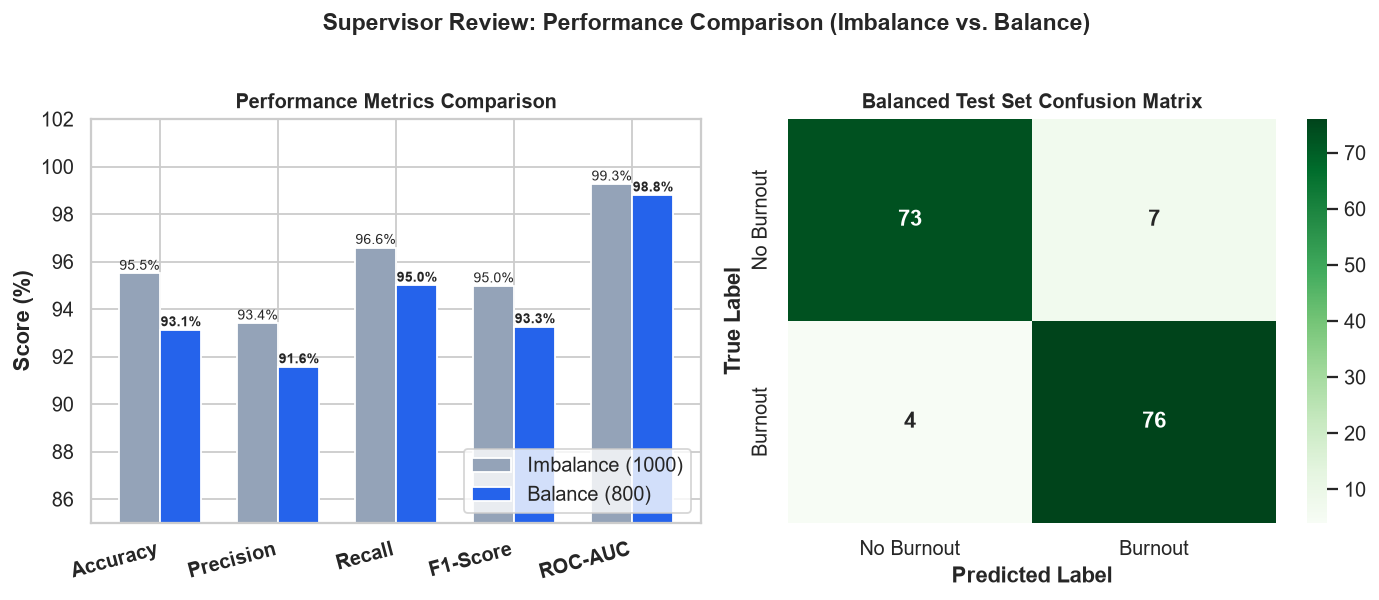
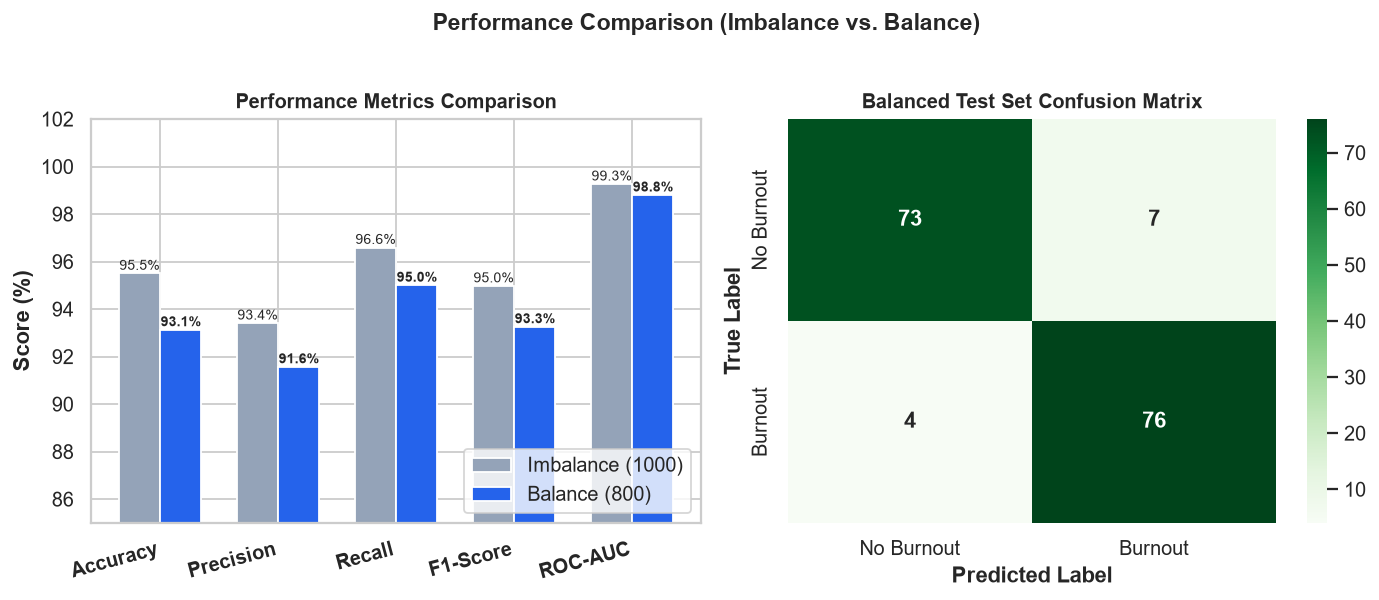
Fix employees table overflow, enclose action buttons within card frame, and improve action button styling

Changed region(s): [[0.2183, 0.0, 0.8107, 0.06]]

diff --git a/frontend/css/style.css b/frontend/css/style.css
@@ -476,6 +476,7 @@ main {
   box-shadow: var(--shadow-sm);
   margin-bottom: 1.75rem;
   transition: var(--transition);
+  overflow: hidden;
 }
 
 .page-title {
@@ -522,10 +523,35 @@ main {
 
 /* ── 10. Modern Data Tables ──────────────────────────────────────────────── */
 .table-wrap {
+  width: 100%;
+  max-width: 100%;
   overflow-x: auto;
+  -webkit-overflow-scrolling: touch;
   border-radius: var(--radius-md);
   border: 1px solid var(--border);
   background: var(--surface);
+  box-shadow: 0 1px 3px rgba(0, 0, 0, 0.02);
+}
+
+#tableContainer,
+#watchlistTableContainer {
+  width: 100%;
+  max-width: 100%;
+}
+
+.table-wrap::-webkit-scrollbar {
+  height: 6px;
+}
+.table-wrap::-webkit-scrollbar-track {
+  background: #f1f5f9;
+  border-radius: 4px;
+}
+.table-wrap::-webkit-scrollbar-thumb {
+  background: #cbd5e1;
+  border-radius: 4px;
+}
+.table-wrap::-webkit-scrollbar-thumb:hover {
+  background: #94a3b8;
 }
 
 table {
@@ -537,11 +563,11 @@ table {
 thead th {
   background: #f8fafc;
   color: #475569;
-  font-size: 0.78rem;
+  font-size: 0.76rem;
   font-weight: 700;
   text-transform: uppercase;
-  letter-spacing: 0.05em;
-  padding: 0.95rem 1.15rem;
+  letter-spacing: 0.04em;
+  padding: 0.85rem 0.95rem;
   border-bottom: 1.5px solid var(--border);
   white-space: nowrap;
 }
@@ -551,30 +577,58 @@ tbody tr {
   border-bottom: 1px solid var(--border-subtle);
 }
 
+tbody tr:last-child {
+  border-bottom: none;
+}
+
 tbody tr:hover {
   background: #f8fafc;
 }
 
 tbody td {
-  padding: 1rem 1.15rem;
-  font-size: 0.9rem;
+  padding: 0.8rem 0.95rem;
+  font-size: 0.88rem;
   color: var(--text);
   vertical-align: middle;
+}
+
+.col-name {
+  min-width: 160px;
 }
 
 .col-name .emp-name-title {
   font-weight: 700;
   color: var(--text);
-  font-size: 0.95rem;
+  font-size: 0.92rem;
+  line-height: 1.25;
 }
 
 .col-name .emp-name-sub {
-  font-size: 0.8rem;
+  font-size: 0.78rem;
   color: var(--muted);
   display: flex;
   gap: 0.35rem;
   align-items: center;
-  margin-top: 0.15rem;
+  margin-top: 0.2rem;
+  white-space: nowrap;
+}
+
+.col-actions {
+  text-align: right;
+  white-space: nowrap;
+  width: 1%;
+  padding-right: 1.15rem !important;
+}
+
+th.col-actions {
+  text-align: right;
+}
+
+body[dir="rtl"] .col-actions,
+body[dir="rtl"] th.col-actions {
+  text-align: left;
+  padding-left: 1.15rem !important;
+  padding-right: 0.95rem !important;
 }
 
 /* ── 11. Badges & Indicators ─────────────────────────────────────────────── */
@@ -718,33 +772,47 @@ tbody td {
 .actions-wrap {
   display: inline-flex;
   align-items: center;
-  gap: 0.45rem;
+  justify-content: flex-end;
+  gap: 0.4rem;
+  white-space: nowrap;
+  flex-wrap: nowrap;
+}
+
+body[dir="rtl"] .actions-wrap {
+  justify-content: flex-start;
 }
 
 .btn-action {
-  padding: 0.38rem 0.75rem;
-  border-radius: var(--radius-sm);
-  font-size: 0.8rem;
+  padding: 0.35rem 0.65rem;
+  border-radius: 6px;
+  font-size: 0.78rem;
   font-weight: 700;
   cursor: pointer;
-  border: none;
+  border: 1px solid transparent;
   font-family: inherit;
   display: inline-flex;
   align-items: center;
+  justify-content: center;
   gap: 0.35rem;
+  white-space: nowrap;
+  flex-shrink: 0;
+  line-height: 1.2;
   transition: var(--transition);
+  box-shadow: 0 1px 2px rgba(0, 0, 0, 0.04);
 }
 
 .btn-action.edit {
-  background: #eff6ff;
-  color: #1d4ed8;
-  border: 1px solid #bfdbfe;
+  background: #f0f7ff;
+  color: #0369a1;
+  border: 1px solid #bae6fd;
 }
 
 .btn-action.edit:hover {
-  background: #dbeafe;
-  color: #1e40af;
+  background: #e0f2fe;
+  color: #0284c7;
+  border-color: #7dd3fc;
   transform: translateY(-1px);
+  box-shadow: 0 2px 6px rgba(3, 105, 161, 0.15);
 }
 
 .btn-action.delete {
@@ -756,7 +824,9 @@ tbody td {
 .btn-action.delete:hover {
   background: #ffe4e6;
   color: #9f1239;
+  border-color: #fda4af;
   transform: translateY(-1px);
+  box-shadow: 0 2px 6px rgba(190, 18, 60, 0.15);
 }
 
 /* ── 13. Form Inputs & Controls ─────────────────────────────────────────── */

diff --git a/frontend/employees.html b/frontend/employees.html
@@ -355,22 +355,24 @@
     }).join("");
 
     document.getElementById("tableContainer").innerHTML = `
-      <table>
-        <thead>
-          <tr>
-            <th data-i18n="emp_col_id">${i18n.t("emp_col_id")}</th>
-            <th class="col-name" data-i18n="emp_col_name">${i18n.t("emp_col_name")}</th>
-            <th data-i18n="emp_col_hours">${i18n.t("emp_col_hours")}</th>
-            <th data-i18n="emp_col_ot">${i18n.t("emp_col_ot")}</th>
-            <th data-i18n="emp_col_abs">${i18n.t("emp_col_abs")}</th>
-            <th data-i18n="emp_col_tasks">${i18n.t("emp_col_tasks")}</th>
-            <th style="min-width:140px;" data-i18n="emp_col_score">${i18n.t("emp_col_score")}</th>
-            <th data-i18n="emp_col_level">${i18n.t("emp_col_level")}</th>
-            <th class="col-actions" data-i18n="emp_col_actions">${i18n.t("emp_col_actions")}</th>
-          </tr>
-        </thead>
-        <tbody>${rows}</tbody>
-      </table>
+      <div class="table-wrap">
+        <table>
+          <thead>
+            <tr>
+              <th data-i18n="emp_col_id">${i18n.t("emp_col_id")}</th>
+              <th class="col-name" data-i18n="emp_col_name">${i18n.t("emp_col_name")}</th>
+              <th data-i18n="emp_col_hours">${i18n.t("emp_col_hours")}</th>
+              <th data-i18n="emp_col_ot">${i18n.t("emp_col_ot")}</th>
+              <th data-i18n="emp_col_abs">${i18n.t("emp_col_abs")}</th>
+              <th data-i18n="emp_col_tasks">${i18n.t("emp_col_tasks")}</th>
+              <th style="min-width:125px;" data-i18n="emp_col_score">${i18n.t("emp_col_score")}</th>
+              <th data-i18n="emp_col_level">${i18n.t("emp_col_level")}</th>
+              <th class="col-actions" data-i18n="emp_col_actions">${i18n.t("emp_col_actions")}</th>
+            </tr>
+          </thead>
+          <tbody>${rows}</tbody>
+        </table>
+      </div>
       <p style="margin-top:.75rem;font-size:.8rem;color:var(--muted);">
         ${i18n.t("emp_showing")} ${start+1}–${Math.min(start+pageSize,total)} ${i18n.t("emp_of")} ${total} ${i18n.t("emp_employees")}
       </p>`;

diff --git a/frontend/index.html b/frontend/index.html
@@ -278,7 +278,7 @@
         <td><strong>${emp.overtime_hours_week.toFixed(1)}h</strong> / wk</td>
         <td>${emp.avg_daily_hours.toFixed(1)}h / day</td>
         <td>${emp.tasks_assigned} tasks</td>
-        <td>
+        <td class="col-actions">
           <a href="employees.html" class="btn-action edit" style="text-decoration:none;">
             🔍 ${i18n.t("dash_btn_inspect")}
           </a>
@@ -287,20 +287,22 @@
     `).join("");
 
     container.innerHTML = `
-      <table>
-        <thead>
-          <tr>
-            <th data-i18n="emp_col_id">${i18n.t("emp_col_id")}</th>
-            <th class="col-name" data-i18n="emp_col_name">${i18n.t("emp_col_name")}</th>
-            <th style="min-width:140px;" data-i18n="dash_col_score">${i18n.t("dash_col_score")}</th>
-            <th data-i18n="dash_col_ot">${i18n.t("dash_col_ot")}</th>
-            <th data-i18n="emp_col_hours">${i18n.t("emp_col_hours")}</th>
-            <th data-i18n="emp_col_tasks">${i18n.t("emp_col_tasks")}</th>
-            <th data-i18n="dash_col_action">${i18n.t("dash_col_action")}</th>
-          </tr>
-        </thead>
-        <tbody>${rows}</tbody>
-      </table>
+      <div class="table-wrap">
+        <table>
+          <thead>
+            <tr>
+              <th data-i18n="emp_col_id">${i18n.t("emp_col_id")}</th>
+              <th class="col-name" data-i18n="emp_col_name">${i18n.t("emp_col_name")}</th>
+              <th style="min-width:125px;" data-i18n="dash_col_score">${i18n.t("dash_col_score")}</th>
+              <th data-i18n="dash_col_ot">${i18n.t("dash_col_ot")}</th>
+              <th data-i18n="emp_col_hours">${i18n.t("emp_col_hours")}</th>
+              <th data-i18n="emp_col_tasks">${i18n.t("emp_col_tasks")}</th>
+              <th class="col-actions" data-i18n="dash_col_action">${i18n.t("dash_col_action")}</th>
+            </tr>
+          </thead>
+          <tbody>${rows}</tbody>
+        </table>
+      </div>
     `;
   }
 
